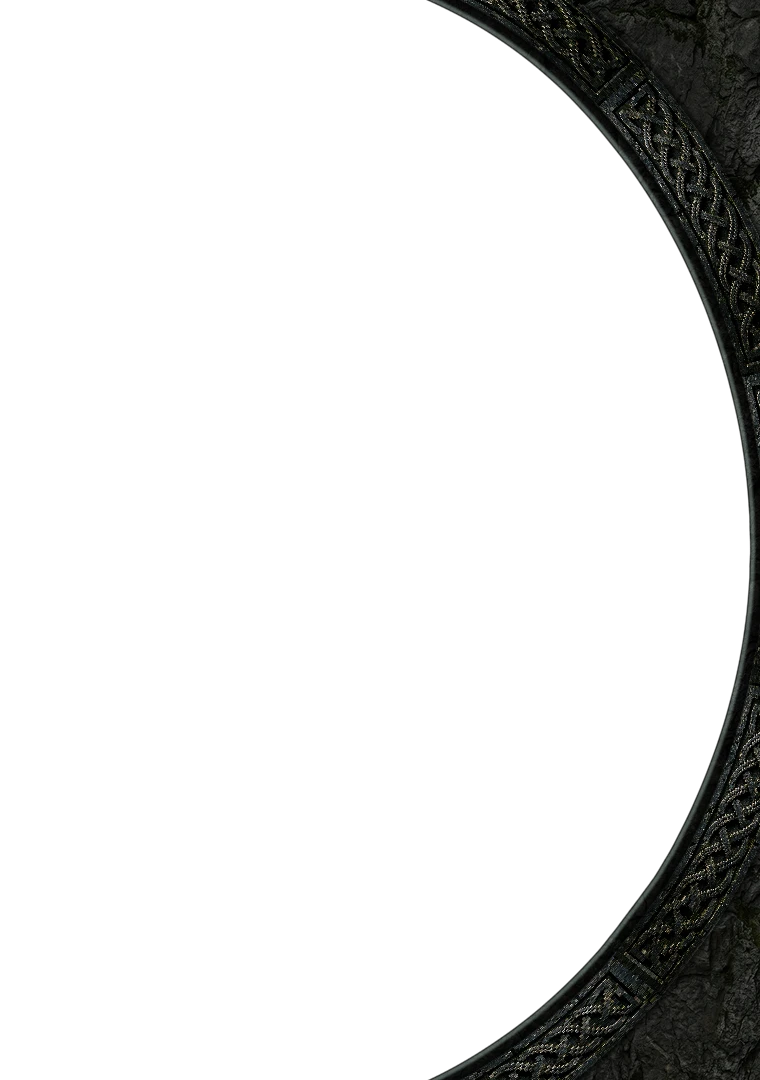
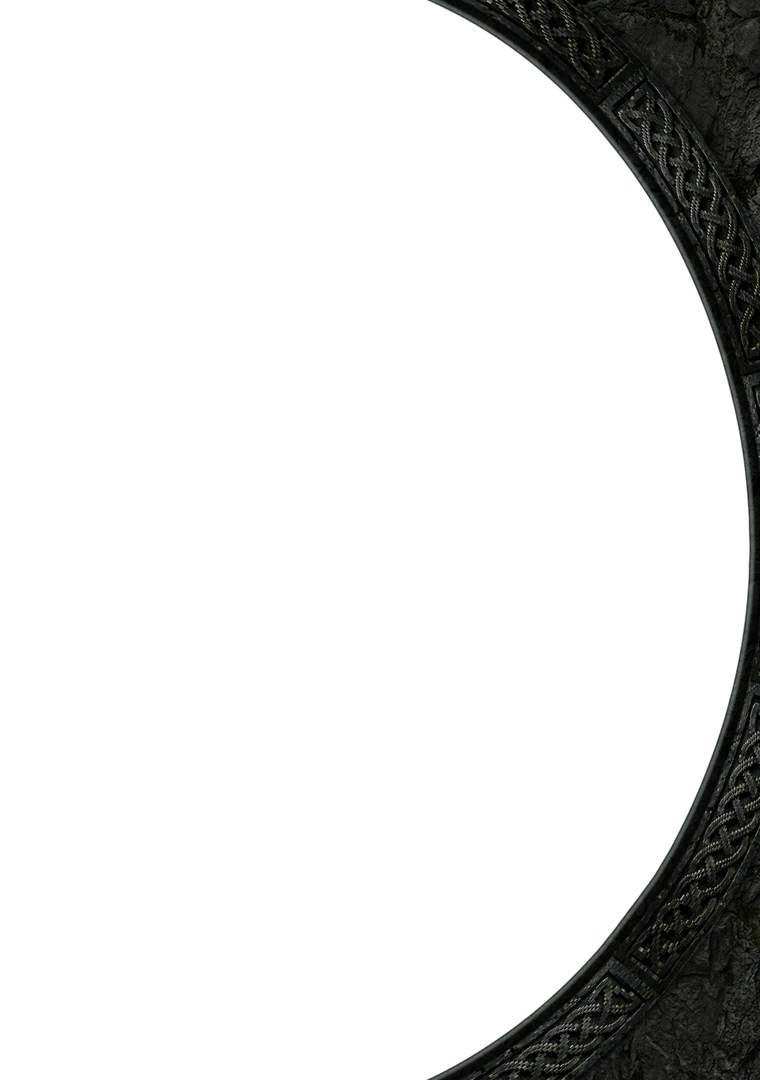
Steinrand C doppelt aufgelöst und geglättet (Leiste vorher sauber verkleinert) – nicht mehr grisselig

Changed region(s): [[0.575, 0.5806, 1.0, 1.0], [0.6355, 0.0, 1.0, 0.4278], [0.9684, 0.5194, 0.9987, 0.55]]

diff --git a/scripts/steinrand.py b/scripts/steinrand.py
@@ -69,7 +69,6 @@ def glatt(a, b, x):
 
 VARIANTEN = {
     'c': {'textur': 'stein-textur-2', 'skala': 0.55, 'leiste': 'stein-rand-1', 'moos': 1.0},
-    'd': {'textur': 'stein-textur-1', 'skala': 0.5, 'leiste': 'stein-rand-2', 'moos': 1.6},
 }
 ABSTAND, LEISTE_B = 34, 64
 geo = {}
@@ -80,13 +79,14 @@ for seite in ('links', 'rechts'):
     ox = B - BR if rechts else 0
     # Abstand jedes Pixels zur Goldlinie und Bogenlänge am nächsten Kurvenpunkt (in Blöcken gerechnet)
     seg = np.diff(kurve, axis=0); laenge = np.r_[0, np.cumsum(np.hypot(seg[:, 0], seg[:, 1]))]
-    yy, xx = np.mgrid[0:H, 0:BR].astype(np.float64); px = (xx + ox).ravel(); py = yy.ravel()
+    SS = 2  # doppelt gerechnet, dann geglättet verkleinert (Rückmeldung 05.11.2026: Rand wirkte grisselig)
+    yy, xx = (np.mgrid[0:H * SS, 0:BR * SS].astype(np.float64) + 0.5) / SS; px = (xx + ox).ravel(); py = yy.ravel()
     d = np.empty(px.size); s = np.empty(px.size)
     for i in range(0, px.size, 20000):
         dx = px[i:i + 20000, None] - kurve[None, :, 0]; dy = py[i:i + 20000, None] - kurve[None, :, 1]
         dd = dx * dx + dy * dy; j = dd.argmin(axis=1)
         d[i:i + 20000] = np.sqrt(dd[np.arange(j.size), j]); s[i:i + 20000] = laenge[j]
-    d = d.reshape(H, BR); s = s.reshape(H, BR)
+    d = d.reshape(H * SS, BR * SS); s = s.reshape(H * SS, BR * SS)
     # nur außen (zur Bildschirmkante hin) zählt
     x_kurve = np.interp(yy, kurve[:, 1], kurve[:, 0])
     aussen = (xx + ox > x_kurve) if rechts else (xx + ox < x_kurve)
@@ -94,7 +94,7 @@ for seite in ('links', 'rechts'):
     r0 = ABSTAND
     print(seite, 'Goldlinie verfolgt, Ersatzkreis', round(cx), round(cy), round(r))
     for v, cfg in VARIANTEN.items():
-        stein = kachel(cfg['textur'], cfg['skala'])
+        stein = np.asarray(Image.fromarray(kachel(cfg['textur'], cfg['skala']).astype(np.uint8)).resize((BR * SS, H * SS), Image.LANCZOS)).astype(np.float32)
         if rechts: stein = stein[:, ::-1]
         gruen = np.clip(stein[..., 1] - (stein[..., 0] + stein[..., 2]) / 2, 0, None)
         stein[..., 1] += gruen * (cfg['moos'] - 1) * 1.5
@@ -102,7 +102,9 @@ for seite in ('links', 'rechts'):
         fase = glatt(r0, r0 + 2, d) * (1 - glatt(r0 + 3, r0 + 7, d))
         schatten = 1 - 0.55 * (1 - glatt(r0 + 4, r0 + 40, d))
         stein = stein * schatten[..., None] + fase[..., None] * np.array([70, 80, 78])
-        l = leiste(cfg['leiste']); lh, lw = l.shape[:2]
+        l = leiste(cfg['leiste']); lh0, lw0 = l.shape[:2]
+        l = np.asarray(Image.fromarray(l.astype(np.uint8)).resize((LEISTE_B * SS, round(lh0 * LEISTE_B * SS / lw0)), Image.LANCZOS)).astype(np.float32)  # vorher glatt verkleinern
+        lh, lw = l.shape[:2]
         innen = r0 + 14
         spalte_f = (d - innen) / LEISTE_B
         in_leiste = (spalte_f >= 0) & (spalte_f < 1)
@@ -114,7 +116,7 @@ for seite in ('links', 'rechts'):
         fuge = 1 - 0.6 * (glatt(-0.12, 0, spalte_f) * (1 - glatt(0, 0.02, spalte_f)) + glatt(0.98, 1, spalte_f) * (1 - glatt(1.0, 1.12, spalte_f)))
         stein = np.where(in_leiste[..., None], stein * (1 - kante[..., None]) + farbe * kante[..., None], stein * fuge[..., None])
         alpha = glatt(r0 - 1, r0 + 1, d) * 255
-        Image.fromarray(np.dstack([np.clip(stein, 0, 255), alpha]).astype(np.uint8), 'RGBA').save(f'hud5/ebenen/rand-{v}-{seite}.webp', quality=90)
+        Image.fromarray(np.dstack([np.clip(stein, 0, 255), alpha]).astype(np.uint8), 'RGBA').resize((BR, H), Image.LANCZOS).save(f'hud5/ebenen/rand-{v}-{seite}.webp', quality=90)
 json.dump({'breite': BR, 'abstand': ABSTAND, **geo}, open('hud5/ebenen/rand.json', 'w'), indent=1)
 print('fertig')
 
